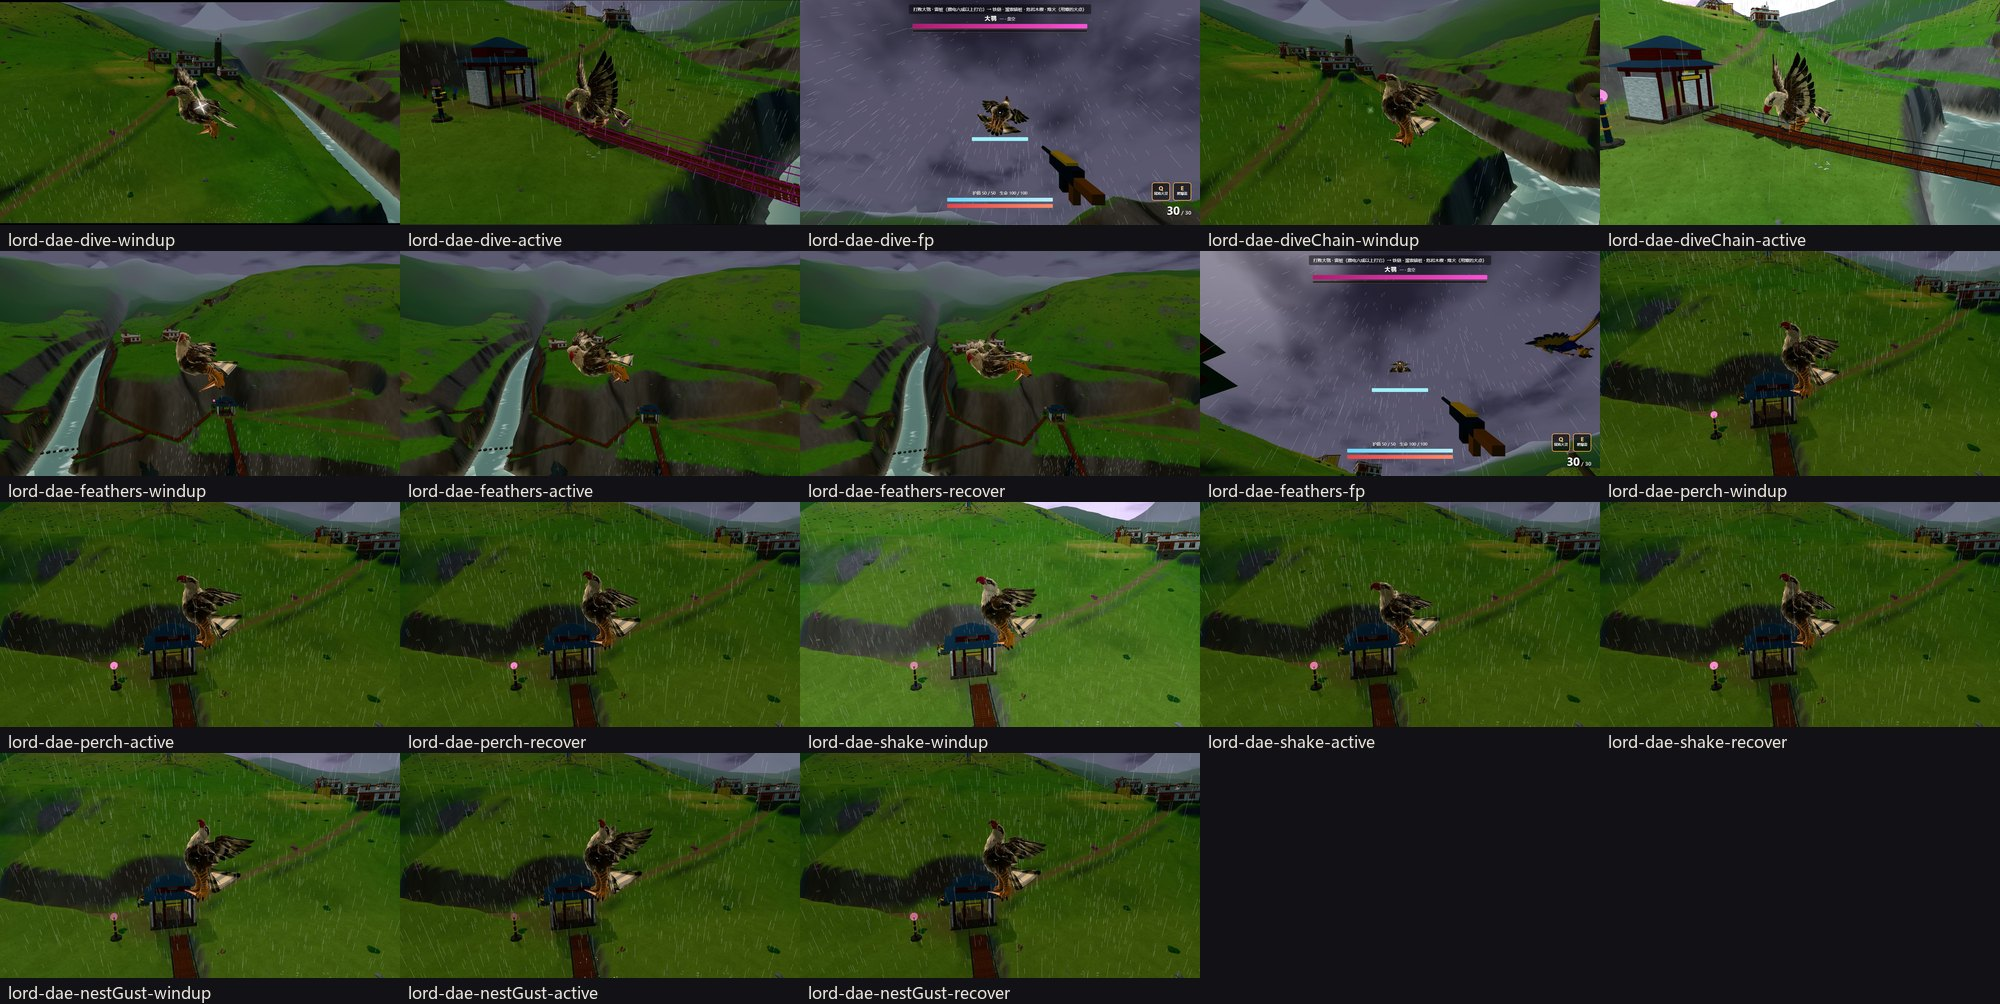
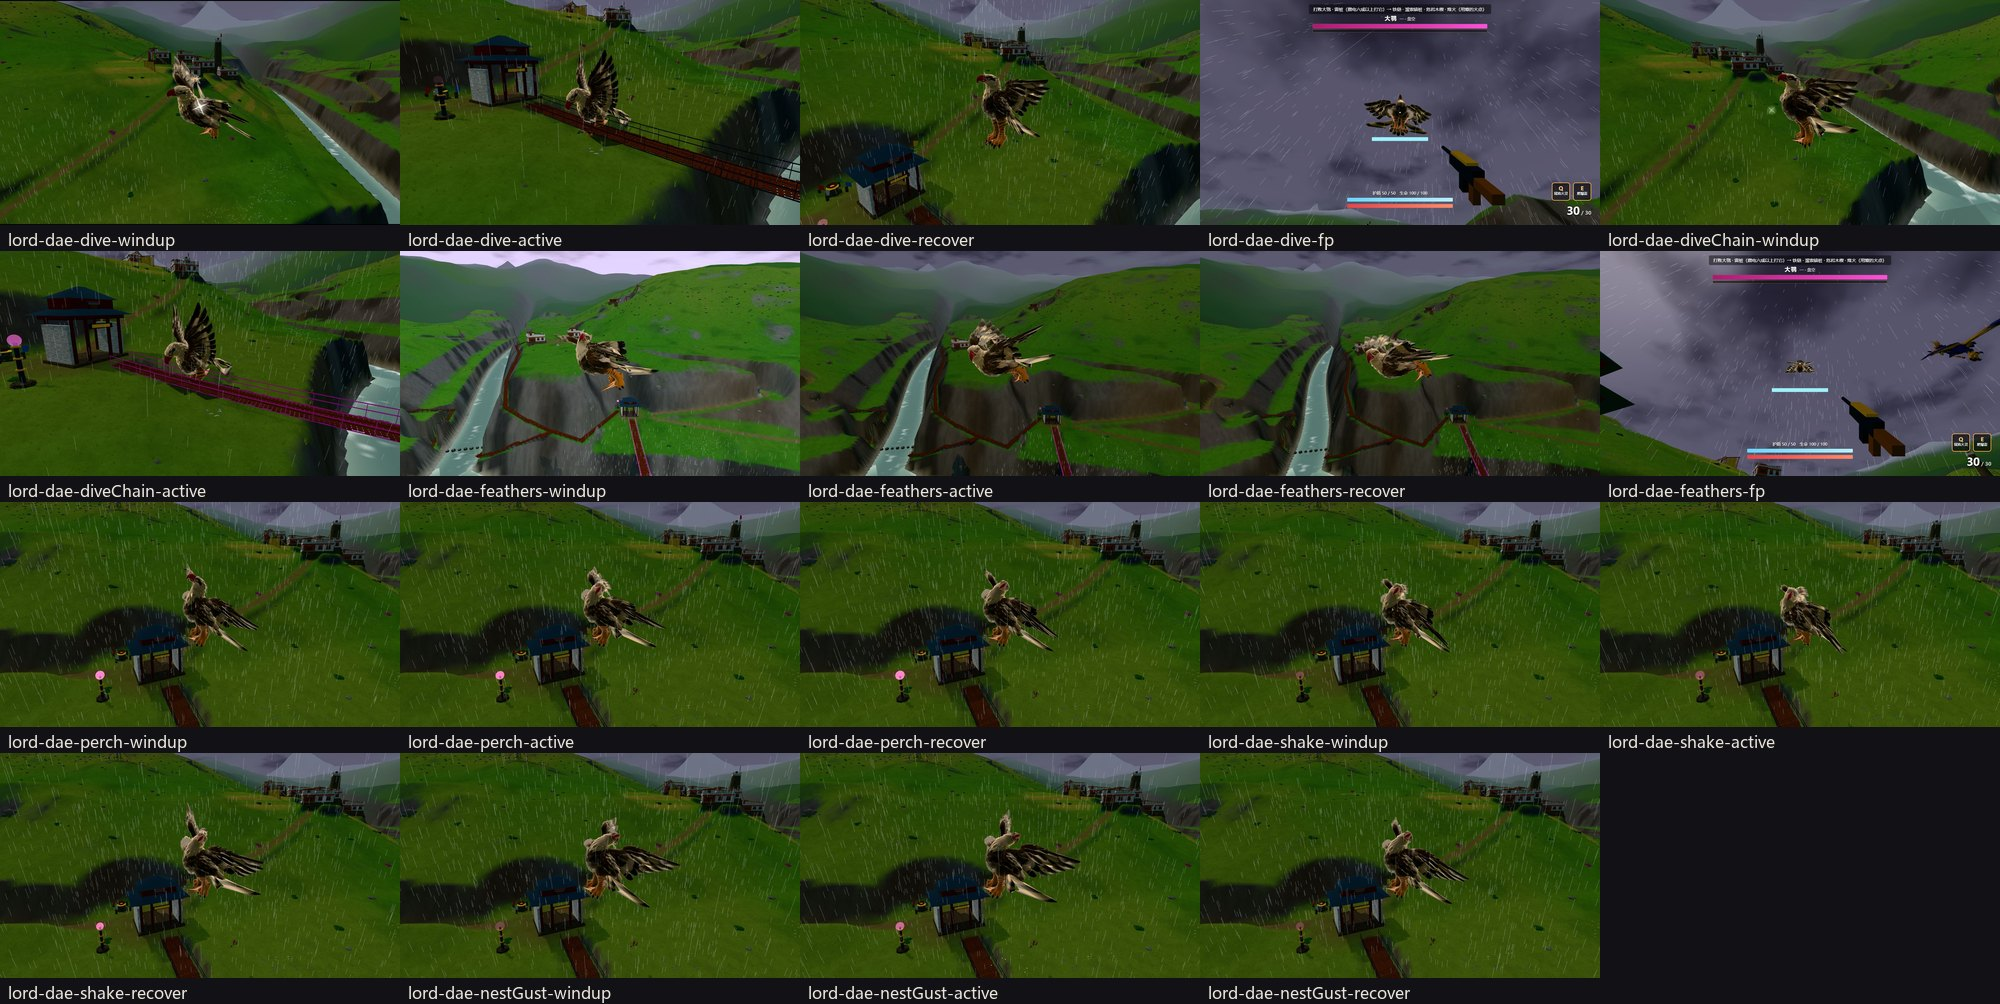
fix(plateau): 大鹗盘旋时也摆飞行姿势、飞行中翅膀放大到约 15 m 翼展
- DaeBoss 不出招时姿势名 glide：姿势表只在有姿势名时才跑，之前盘旋时翅膀停在绑定的 V 形
- 网格翼展压平只有约 11 m（设计 16）：飞行时 wing_1 / wing_low 整扇等比放大 1.45 倍，停着收回原大
- 重跑 playtest dae：登场交还误差仍为 0，审阅总图更新

diff --git a/src/world/plateau/play/poses.ts b/src/world/plateau/play/poses.ts
@@ -528,6 +528,10 @@ function daeBase(A: CreatureAnimator, w: number, s: AnimState, t: number): void 
     R(`wing_2_${s2}`, AZ, sd * w2);
     R(`wing_3_${s2}`, AZ, sd * w3);
     R(`wing_low_${s2}`, AZ, sd * wl);
+    // 网格的翅膀比设计短（压平只有约 11 m）：飞的时候整扇翅膀等比放大 1.45 倍，翼展到约 15 m；停着收回原大
+    //（缩放不按权重叠加，所有招式槽给的都是同一个 air，取哪一次都一样）
+    A.P.scale(`wing_1_${s2}`, 1 + 0.45 * air);
+    A.P.scale(`wing_low_${s2}`, 1 + 0.45 * air);
     // 虎腿：飞的时候再往后收一点、爪子攥起来
     R(`thigh_${s2}`, AX, 0.3 * air);
     R(`shin_${s2}`, AX, 0.2 * air);

diff --git a/src/world/gorge/play.ts b/src/world/gorge/play.ts
@@ -47,6 +47,8 @@ export class DaeBoss extends Boss {
   readonly phaseNames = ['一 · 盘空', '二 · 撕桥', '三 · 狂怒'];
   protected readonly breakTime = 4.5;
   protected override downPose = 'fall';
+  /** 不出招时也要摆底层（扇翅、收腿、飞行时压平翅膀）：姿势表只在有姿势名时才跑 */
+  protected override posture = 'glide';
   /** 俯仰 / 侧倾（飞行时朝速度方向抬低头、盘旋往里倾）：模型挂在它下面，枢轴在髋部 */
   readonly tilt: THREE.Group;
   /** 髋部离脚底多高（落脚点按它摆，脚踩在台面上） */

diff --git a/docs/art/enemy-roster-v2.md b/docs/art/enemy-roster-v2.md
@@ -1019,7 +1019,7 @@ Tripo 智能网格（三角面 1.2 万档，实得 13636），自定义四足骨
 
 | 模型 | 资产 ID | 取的高度 | 结果 | 骨骼 | 发光壳（材质槽） | 审核拉伸（p99） |
 |---|---|---|---|---|---|---|
-| 大鹗 | SK_Boss_Dae | 10.0 米（翼尖） | 体长约 5.3、站高约 7.6、髋部 3.3；翼展压平约 11 米（设计 16：网格翅膀短，先保体长） | 23：hips → chest → neck → head，胸口 core；双翼 wing_1..3 + 下半扇 wing_low（挂 chest，同鹏）；尾扇三节；虎腿 thigh / shin / talon | core → M_Boss_Dae_Glow | 平展 3.0、下压 3.8、上提 1.6、收翼 1.5、抬头 2.5、转头 2.6、收腿 3.6、探爪 3.5（尾扇上翘 17.9：尾扇贴着腿，飞行时只动 0.15 rad） |
+| 大鹗 | SK_Boss_Dae | 10.0 米（翼尖） | 体长约 5.3、站高约 7.6、髋部 3.3；网格翼展压平约 11 米（设计 16：网格翅膀短，先保体长），游玩时飞行中整扇翅膀等比放大 1.45 倍，翼展约 15 米 | 23：hips → chest → neck → head，胸口 core；双翼 wing_1..3 + 下半扇 wing_low（挂 chest，同鹏）；尾扇三节；虎腿 thigh / shin / talon | core → M_Boss_Dae_Glow | 平展 3.0、下压 3.8、上提 1.6、收翼 1.5、抬头 2.5、转头 2.6、收腿 3.6、探爪 3.5（尾扇上翘 17.9：尾扇贴着腿，飞行时只动 0.15 rad） |
 | 雷泽雷神 | SK_Boss_Leize | 10.0 米（截面到冠顶） | 截面半宽约 1.5（接程序化龙身）、肩高 5.9、双臂垂到 0.25 | 16：spine1 → spine2 → chest → neck → head；神面 mask、腹鼓 drum；双臂 shoulder / arm / forearm / claw | mask → M_Boss_Leize_Face_Glow、drum → M_Boss_Leize_Drum_Glow | 前倾 1.6、后仰 1.3、扭腰 1.5、低头 3.1、转头 3.3、双臂前伸 5.5、抬臂 70° 6.7、拍腹 4.6、攥爪 1.2 |
 
 **绑骨要点**
@@ -1031,7 +1031,7 @@ Tripo 智能网格（三角面 1.2 万档，实得 13636），自定义四足骨
 
 **网页可玩版**（`src/world/gorge/play.ts` 的 DaeBoss、`src/world/haizi/leize.ts`）
 - 大鹗：模型挂在 tilt 组下、往下挪髋部高度，tilt 的枢轴（= `pos`）在髋部，落脚点按髋高摆。飞的时候整只鸟往前扳约 66°（俯冲 77°），翼面从正面转成接近水平，
-  翅膀在体轴正面里压到和脊柱垂直再扇，头颈抬回来看前方（poses.ts 的 `daeBase`）；停着就是绑定的 V 形站姿。gait `raptor`：腿和翅膀全交给姿势表。
+  翅膀在体轴正面里压到和脊柱垂直再扇，头颈抬回来看前方（poses.ts 的 `daeBase`）；飞的时候 wing_1 / wing_low 整扇等比放大 1.45 倍补翼展，停着就是原大的 V 形站姿。gait `raptor`：腿和翅膀全交给姿势表；不出招时姿势名是 `glide`（姿势表只在有姿势名时才跑，没有它盘旋时翅膀会停在绑定姿势）。
 - 雷泽雷神：上身放在漩涡上（截面沉在水下 0.7 米），前倾 / 低头分到脊柱各节，双爪两骨 IK 到招式给的手的目标（落点、时间点都没改）；
   姿势表 `leize` 只管头颈和鼓面。gait `titan`。两个首领都在模型加载完（start）才建。
 - 2026-10-24：用 a85a2eab 的 LOD 接缝修复（减面前焊接、锁细小部件、还原法线）重建发布，各级 LOD 开放边不多于源网格；导进 Unity（`unity_export.py` + Spiritfire ▸ Art ▸ Sync，Prefab `Art/Prefabs/Characters/SK_Boss_Dae`、`SK_Boss_Leize`，Art QA 287/287 通过、两只无警告）。Unity 侧还没有这两个首领的玩法代码和动作片段。
